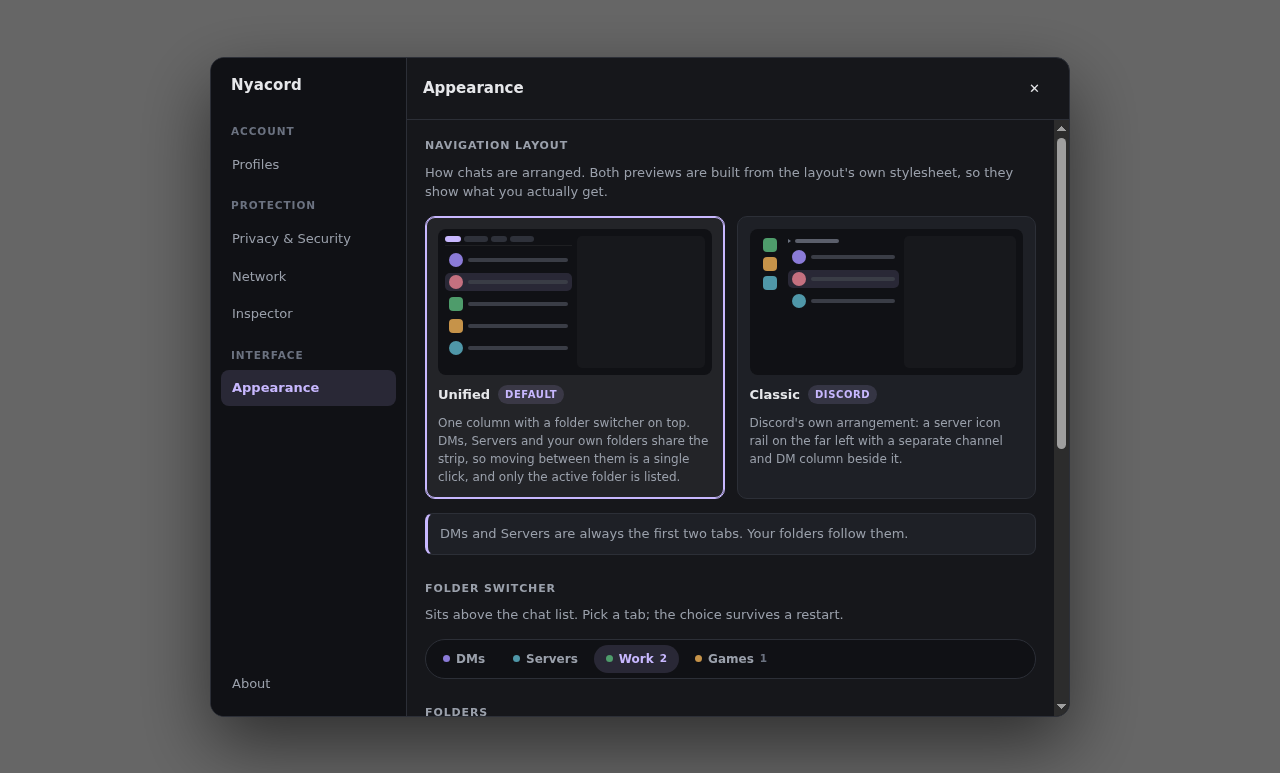
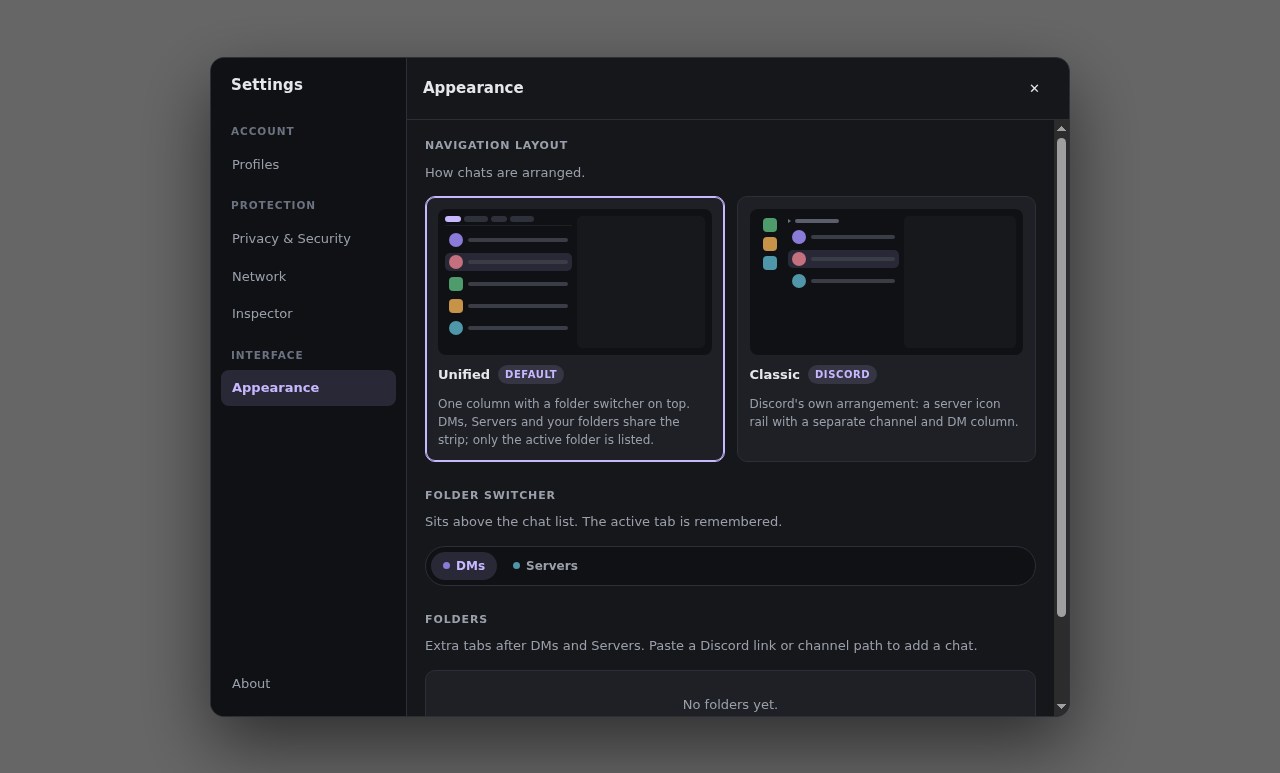
Stop the passkey prompt firing on its own, and tidy the menus
Three things.

**Passkey popup.** Discord's login page asks for a passkey through WebAuthn
conditional mediation, which opens a system dialog as soon as the page
loads, before you have asked for anything. Conditional mediation, passkey
upgrade and immediate-get are now disabled through Chromium features. The
login screen's own "log in with a passkey" link uses a different mediation
mode and still works.

**Menus.** The top-level menu was named after the app, which said nothing
about what is inside it; it is "Settings" now, and its items are the panel's
panes in the panel's own order: Profiles, Privacy & Security, Network,
Inspector, Appearance, then About last. Appearance and Inspector used to be
listed in the opposite order to the sidebar. "About Nyacord" is just
"About". The Help menu held only that item and a disabled version line that
About already shows, so it is gone. Reload moved to View, where a view
action belongs, leaving Settings to hold settings.

The panel's sidebar header said "Nyacord" above a list of settings; it says
"Settings".

**Copy.** Trimmed lines that described the UI sitting directly below them.
The appearance notice now appears only under Classic, where it explains why
the switcher is inert; under Unified the strip was explaining itself.

Verified live: disable-features carries all three WebAuthn flags, the menu
bar is Settings/Edit/View, the Settings submenu matches the sidebar order,
[…]

diff --git a/src/main/menu.ts b/src/main/menu.ts
@@ -1,53 +1,45 @@
-import { Menu, app, type MenuItemConstructorOptions } from "electron";
+import { Menu, type MenuItemConstructorOptions } from "electron";
 
 import type { AppShell } from "./window";
 
 /**
- * The application menu doubles as the keyboard-shortcut table. Shortcuts are
- * registered here, not as global accelerators, so Nyacord never
- * captures keys while another application is focused.
+ * Shortcuts live here, not as global accelerators, so Nyacord never captures
+ * keys while another application is focused.
+ *
+ * The Settings menu lists the panes in the same order as the panel's own
+ * sidebar, so the two never disagree about where anything is.
  */
 export function buildMenu(shell: AppShell): void {
   const isMac = process.platform === "darwin";
 
   const template: MenuItemConstructorOptions[] = [
-    ...(isMac
-      ? ([{ role: "appMenu" }] satisfies MenuItemConstructorOptions[])
-      : []),
+    ...(isMac ? ([{ role: "appMenu" }] satisfies MenuItemConstructorOptions[]) : []),
     {
-      label: "&Nyacord",
+      label: "&Settings",
       submenu: [
+        { label: "Profiles", accelerator: "CmdOrCtrl+P", click: () => shell.openPanel("profiles") },
         {
-          label: "Profiles…",
-          accelerator: "CmdOrCtrl+P",
-          click: () => shell.openPanel("profiles"),
-        },
-        {
-          label: "Privacy settings…",
+          label: "Privacy & Security",
           accelerator: "CmdOrCtrl+,",
           click: () => shell.openPanel("privacy"),
         },
         {
-          label: "Network…",
+          label: "Network",
           accelerator: "CmdOrCtrl+Shift+N",
           click: () => shell.openPanel("network"),
         },
         {
-          label: "Appearance…",
-          accelerator: "CmdOrCtrl+Shift+A",
-          click: () => shell.openPanel("appearance"),
-        },
-        {
-          label: "Privacy inspector…",
+          label: "Inspector",
           accelerator: "CmdOrCtrl+Shift+I",
           click: () => shell.openPanel("inspector"),
         },
-        { type: "separator" },
         {
-          label: "Reload Discord view",
-          accelerator: "CmdOrCtrl+R",
-          click: () => shell.reloadActive(),
+          label: "Appearance",
+          accelerator: "CmdOrCtrl+Shift+A",
+          click: () => shell.openPanel("appearance"),
         },
+        { type: "separator" },
+        { label: "About", click: () => shell.openPanel("about") },
         { type: "separator" },
         ...(isMac ? [] : ([{ role: "quit" }] satisfies MenuItemConstructorOptions[])),
       ],
@@ -67,18 +59,13 @@ export function buildMenu(shell: AppShell): void {
     {
       label: "&View",
       submenu: [
+        { label: "Reload", accelerator: "CmdOrCtrl+R", click: () => shell.reloadActive() },
+        { type: "separator" },
         { role: "resetZoom" },
         { role: "zoomIn" },
         { role: "zoomOut" },
         { type: "separator" },
         { role: "togglefullscreen" },
-      ],
-    },
-    {
-      label: "&Help",
-      submenu: [
-        { label: "About Nyacord", click: () => shell.openPanel("about") },
-        { label: `Version ${app.getVersion()}`, enabled: false },
       ],
     },
   ];

diff --git a/src/renderer/shell.html b/src/renderer/shell.html
@@ -15,7 +15,7 @@
 
     <main id="panel" role="dialog" aria-label="Nyacord settings">
       <nav id="sidebar" role="tablist" aria-orientation="vertical">
-        <div class="brand">Nyacord</div>
+        <div class="brand">Settings</div>
 
         <div class="nav-group">Account</div>
         <button data-pane="profiles" class="tab active">Profiles</button>
@@ -40,8 +40,7 @@
 
         <section class="pane" data-pane="profiles" data-title="Profiles">
           <p class="hint">
-            Each profile is a separate browser session with its own cookies, storage
-            and login. Profiles cannot see each other.
+            Separate browser sessions. Profiles cannot see each other.
           </p>
           <ul id="profile-list"></ul>
 
@@ -117,25 +116,23 @@
         <section class="pane hidden" data-pane="appearance" data-title="Appearance">
           <h3>Navigation layout</h3>
           <p class="hint">
-            How chats are arranged. Both previews are built from the layout's own
-            stylesheet, so they show what you actually get.
+            How chats are arranged.
           </p>
 
           <div id="layouts" class="layouts"></div>
 
-          <div id="layout-note" class="notice"></div>
+          <div id="layout-note" class="notice hidden"></div>
 
           <h3 class="spaced">Folder switcher</h3>
           <p class="hint">
-            Sits above the chat list. Pick a tab; the choice survives a restart.
+            Sits above the chat list. The active tab is remembered.
           </p>
           <div id="switcher" class="switcher" role="tablist" aria-label="Active folder"></div>
 
           <h3 class="spaced">Folders</h3>
           <p class="hint">
-            Extra tabs in the switcher, after DMs and Servers. Paste a Discord link
-            or channel path to add a chat. Clicking a row opens it in the active
-            profile.
+            Extra tabs after DMs and Servers. Paste a Discord link or channel path
+            to add a chat.
           </p>
           <ul id="folder-list"></ul>
           <div class="row end">
@@ -157,8 +154,8 @@
 
         <section class="pane hidden" data-pane="about" data-title="About">
           <p class="hint">
-            A hardened browser shell around Discord's web app. It does not modify
-            Discord, inject scripts into it, or call the Discord API for you.
+            A hardened browser shell around Discord's web app. Nothing is injected
+            into Discord and no Discord API is called.
           </p>
           <dl id="about-facts"></dl>
         </section>

diff --git a/src/renderer/shell.ts b/src/renderer/shell.ts
@@ -511,7 +511,7 @@ const LAYOUT_CARDS: {
     title: "Unified",
     tag: "Default",
     desc:
-      "One column with a folder switcher on top. DMs, Servers and your own folders share the strip, so moving between them is a single click, and only the active folder is listed.",
+      "One column with a folder switcher on top. DMs, Servers and your folders share the strip; only the active folder is listed.",
     preview: unifiedMock,
   },
   {
@@ -519,7 +519,7 @@ const LAYOUT_CARDS: {
     title: "Classic",
     tag: "Discord",
     desc:
-      "Discord's own arrangement: a server icon rail on the far left with a separate channel and DM column beside it.",
+      "Discord's own arrangement: a server icon rail with a separate channel and DM column.",
     preview: classicMock,
   },
 ];
@@ -562,10 +562,12 @@ function renderAppearance(): void {
     cards.append(el);
   }
 
-  $("#layout-note").textContent =
-    current.layout === "unified"
-      ? "DMs and Servers are always the first two tabs. Your folders follow them."
-      : "The switcher and folders belong to the unified layout. They stay saved while Classic is selected.";
+  // Only worth saying when the switcher below is inert; under Unified the
+  // strip speaks for itself.
+  const note = $("#layout-note");
+  note.classList.toggle("hidden", current.layout === "unified");
+  note.textContent =
+    "The switcher and folders belong to the unified layout. They stay saved while Classic is selected.";
 
   renderSwitcher(current);
   renderFolders(current);

diff --git a/src/main/switches.ts b/src/main/switches.ts
@@ -36,6 +36,13 @@ export function applyChromiumSwitches(policy: PrivacyPolicy): void {
     "MediaRouter",
     // Sends page-load timing to Google for "optimization hints".
     "OptimizationHints",
+    // Conditional mediation is the passkey prompt that fires on its own when a
+    // login page loads, before you have asked for anything. Discord's login
+    // screen also has a normal "log in with a passkey" link, which uses a
+    // different mediation mode and keeps working with these off.
+    "WebAuthenticationConditionalUI",
+    "WebAuthenticationPasskeyUpgrade",
+    "WebAuthenticationImmediateGet",
   ];
 
   app.commandLine.appendSwitch("disable-features", disabledFeatures.join(","));

diff --git a/test/e2e/app.e2e.ts b/test/e2e/app.e2e.ts
@@ -107,7 +107,7 @@ before(async () => {
   await until(async () => {
     const opened = await app.evaluate(({ Menu }) => {
       const menu = Menu.getApplicationMenu();
-      const nya = menu?.items.find((item) => (item.label || "").includes("Nyacord"));
+      const nya = menu?.items.find((item) => (item.label || "").includes("Settings"));
       const entry = nya?.submenu?.items.find((item) => (item.label || "").startsWith("Network"));
       if (!entry) return false;
       entry.click();

diff --git a/src/renderer/shell.css b/src/renderer/shell.css
@@ -194,6 +194,10 @@ h3.spaced {
   color: var(--muted);
 }
 
+.notice.hidden {
+  display: none;
+}
+
 .notice {
   border: 1px solid var(--line);
   border-left: 3px solid var(--accent);

diff --git a/README.md b/README.md
@@ -136,10 +136,10 @@ OS location and says so in **About**.
 | | |
 | --- | --- |
 | <kbd>Ctrl/Cmd</kbd>+<kbd>P</kbd> | Profiles |
-| <kbd>Ctrl/Cmd</kbd>+<kbd>,</kbd> | Privacy settings |
+| <kbd>Ctrl/Cmd</kbd>+<kbd>,</kbd> | Privacy & Security |
 | <kbd>Ctrl/Cmd</kbd>+<kbd>Shift</kbd>+<kbd>N</kbd> | Network |
-| <kbd>Ctrl/Cmd</kbd>+<kbd>Shift</kbd>+<kbd>A</kbd> | Appearance |
 | <kbd>Ctrl/Cmd</kbd>+<kbd>Shift</kbd>+<kbd>I</kbd> | Inspector |
+| <kbd>Ctrl/Cmd</kbd>+<kbd>Shift</kbd>+<kbd>A</kbd> | Appearance |
 | <kbd>Ctrl/Cmd</kbd>+<kbd>R</kbd> | Reload the Discord view |
 | <kbd>Esc</kbd> | Close the panel |
 

diff --git a/docs/PRIVACY.md b/docs/PRIVACY.md
@@ -28,6 +28,7 @@ Every entry below is enforced in the main process, is covered by
 | Known tracker hosts | Google Analytics, GTM, DoubleClick, Segment, Amplitude, and similar |
 | Chromium background services | Component updates, Safe Browsing, dictionary downloads, optimization hints |
 | Crash reporting | Breakpad and Crashpad are disabled at the Electron layer |
+| Passkey autofill prompts | Conditional WebAuthn is off, so no passkey dialog opens on its own |
 | Hyperlink auditing (`<a ping>`) | Off |
 | Domain reliability reporting | Off: Chromium otherwise reports network errors to Google |
 
